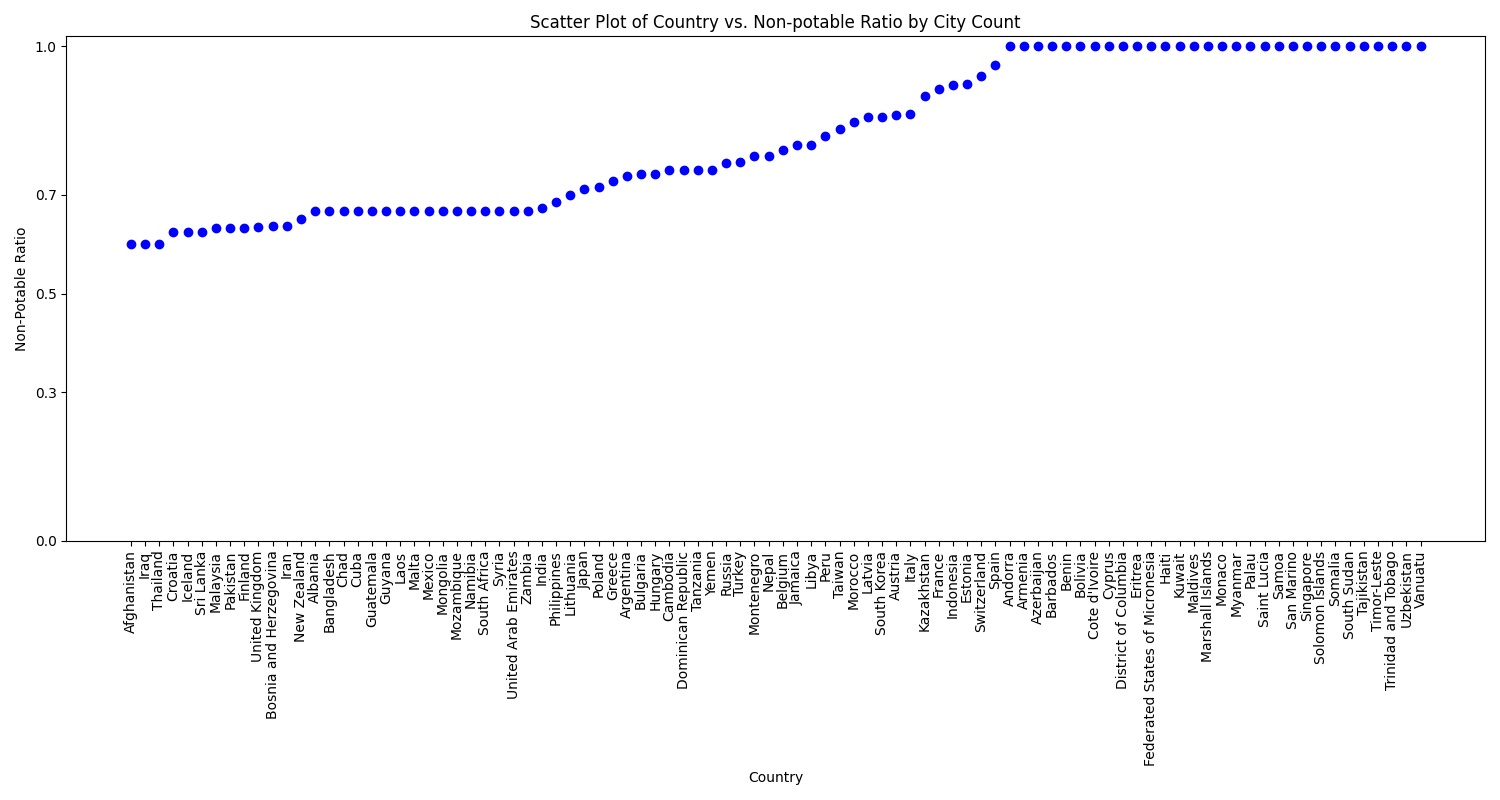
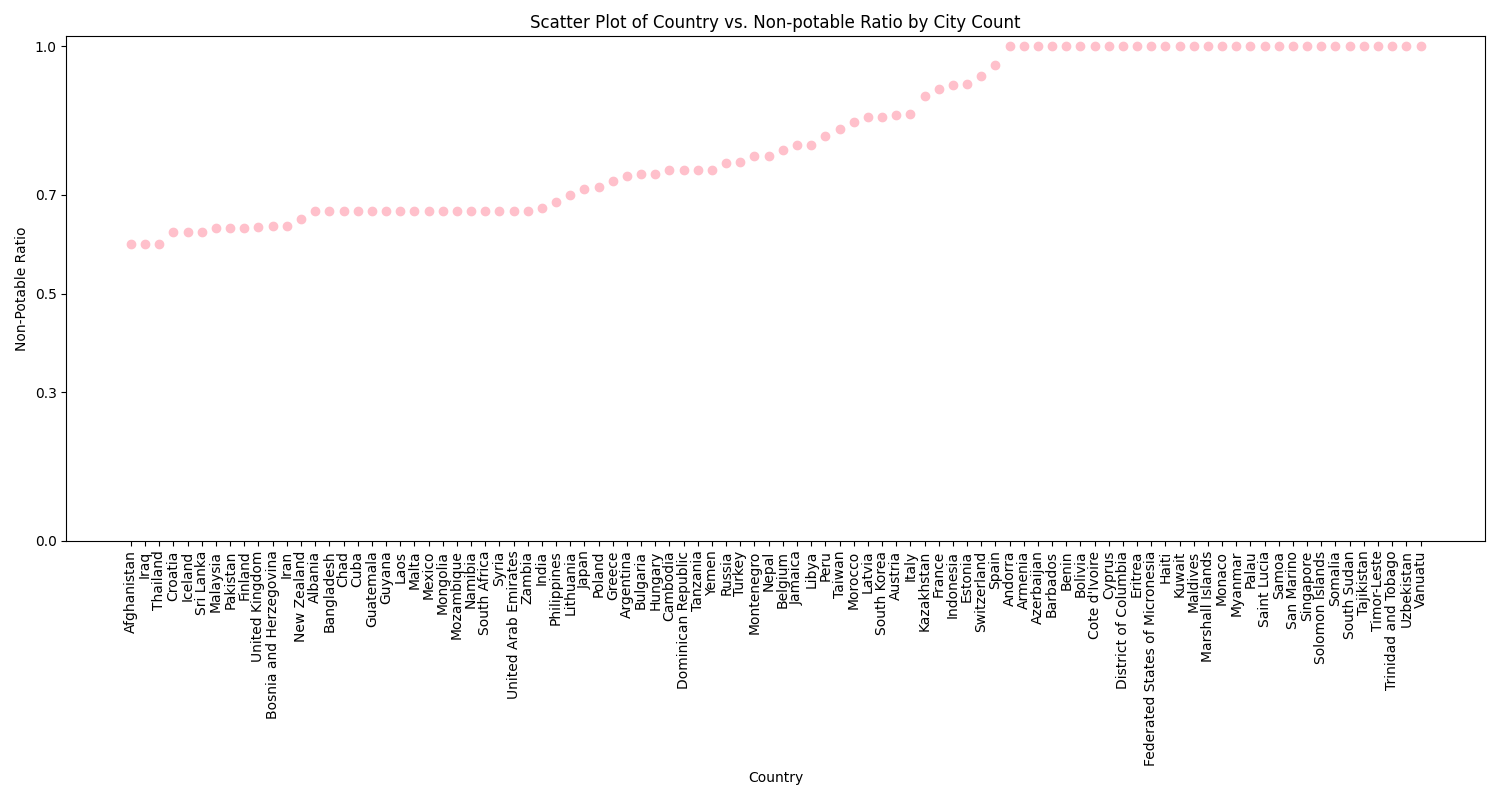
country ratio

diff --git a/MiniProjectGroup6/country_pot.py b/MiniProjectGroup6/country_pot.py
@@ -9,25 +9,32 @@ df_second = df[(df['Non Pot'] >= 0.6)]
 
 plt.figure(figsize=(15, 8))  # Increase figure size
 plt.scatter(df_first['Country'], df_first['Non Pot'],
-            color='blue')  # Create scatter plot
-plt.xticks(rotation=90)  # Rotate the labels to fit them better
+            color='green')
+
+plt.xticks(rotation=90)
+
 plt.yticks([0, 0.3, 0.5, 0.7, 1])
 plt.xlabel('Country')
 plt.ylabel('Non-Potable Ratio')
 plt.title('Scatter Plot of Country vs. Non-potable Ratio by City Count')
-plt.tight_layout()  # Adjust layout to make room for label rotation
+
+plt.tight_layout()
+
 plt.savefig('pictures/NonPotabilityRatio_0-0.5.png')
 plt.close()
 
 
-plt.figure(figsize=(15, 8))  # Increase figure size
+plt.figure(figsize=(15, 8))
+
 plt.scatter(df_second['Country'], df_second['Non Pot'],
-            color='blue')  # Create scatter plot
-plt.xticks(rotation=90)  # Rotate the labels to fit them better
+            color='pink')
+plt.xticks(rotation=90)
 plt.yticks([0, 0.3, 0.5, 0.7, 1])
 plt.xlabel('Country')
 plt.ylabel('Non-Potable Ratio')
 plt.title('Scatter Plot of Country vs. Non-potable Ratio by City Count')
-plt.tight_layout()  # Adjust layout to make room for label rotation
+
+plt.tight_layout()
+
 plt.savefig('pictures/NonPotabilityRatio_0.5-1.png')
 plt.close()
